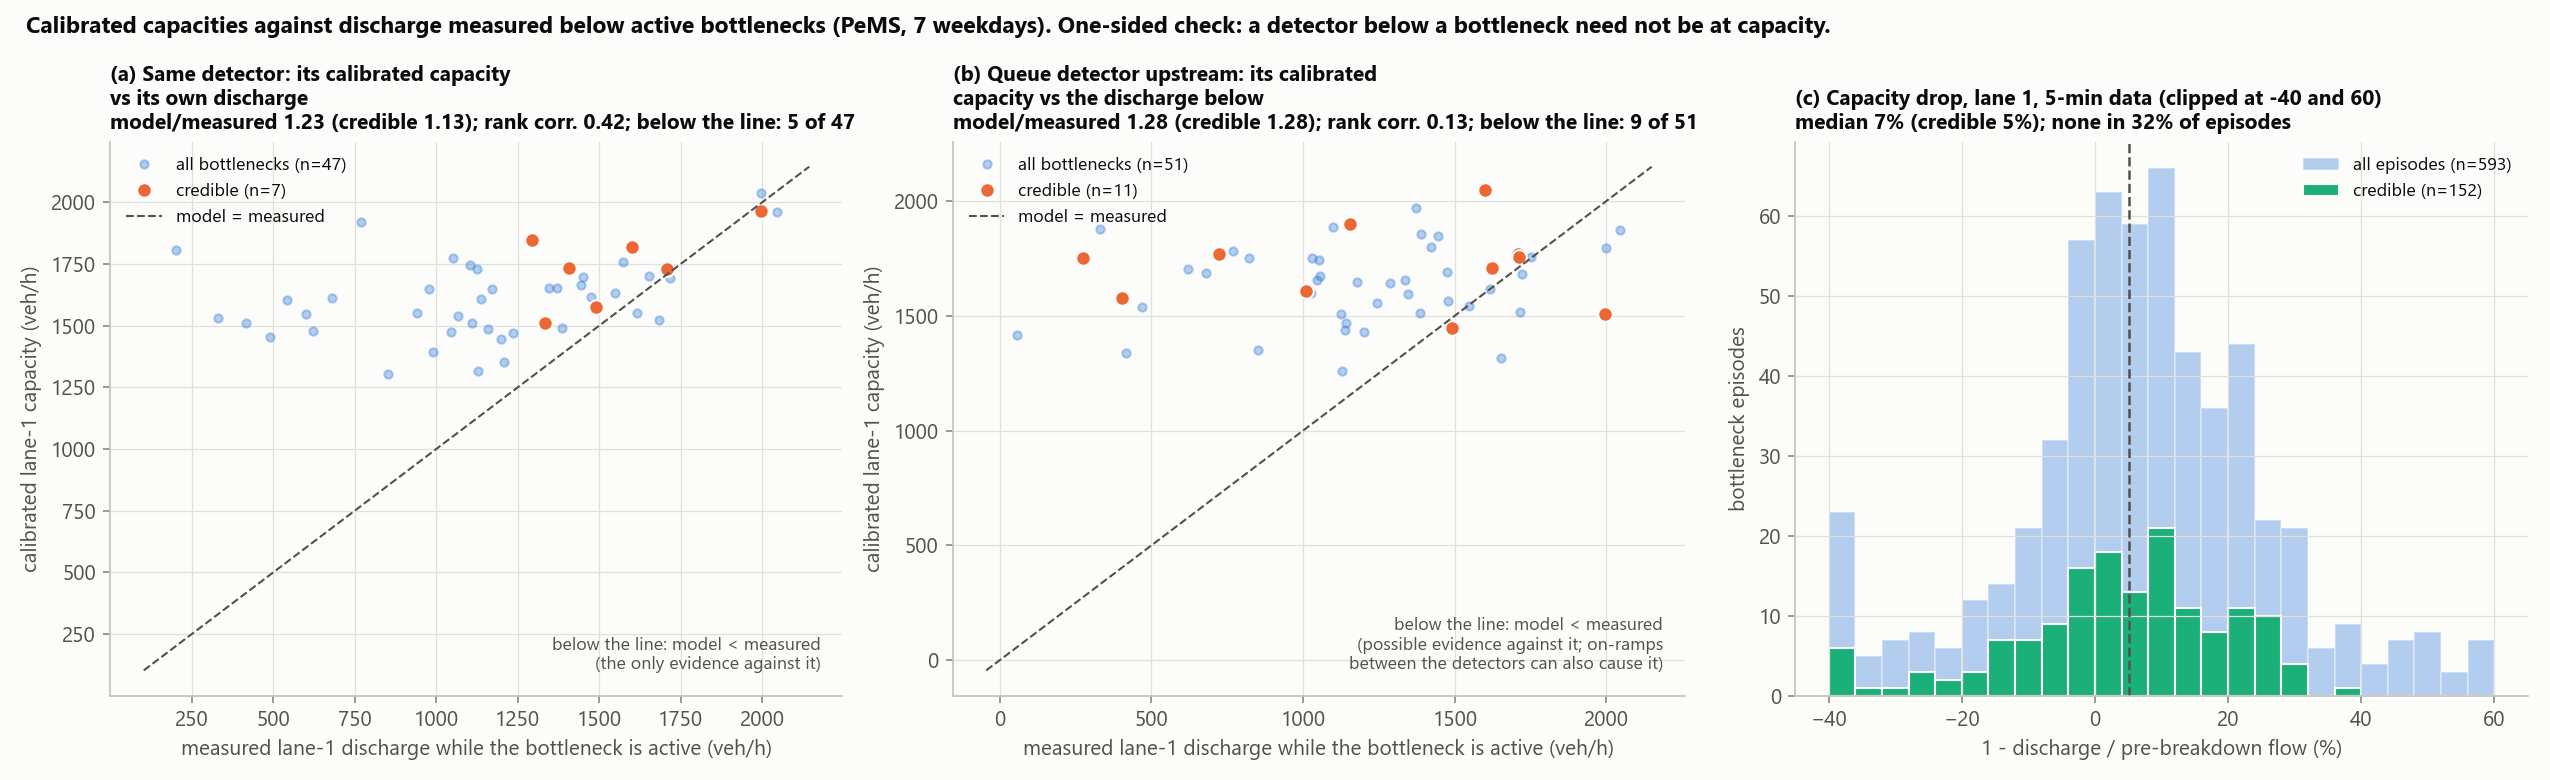
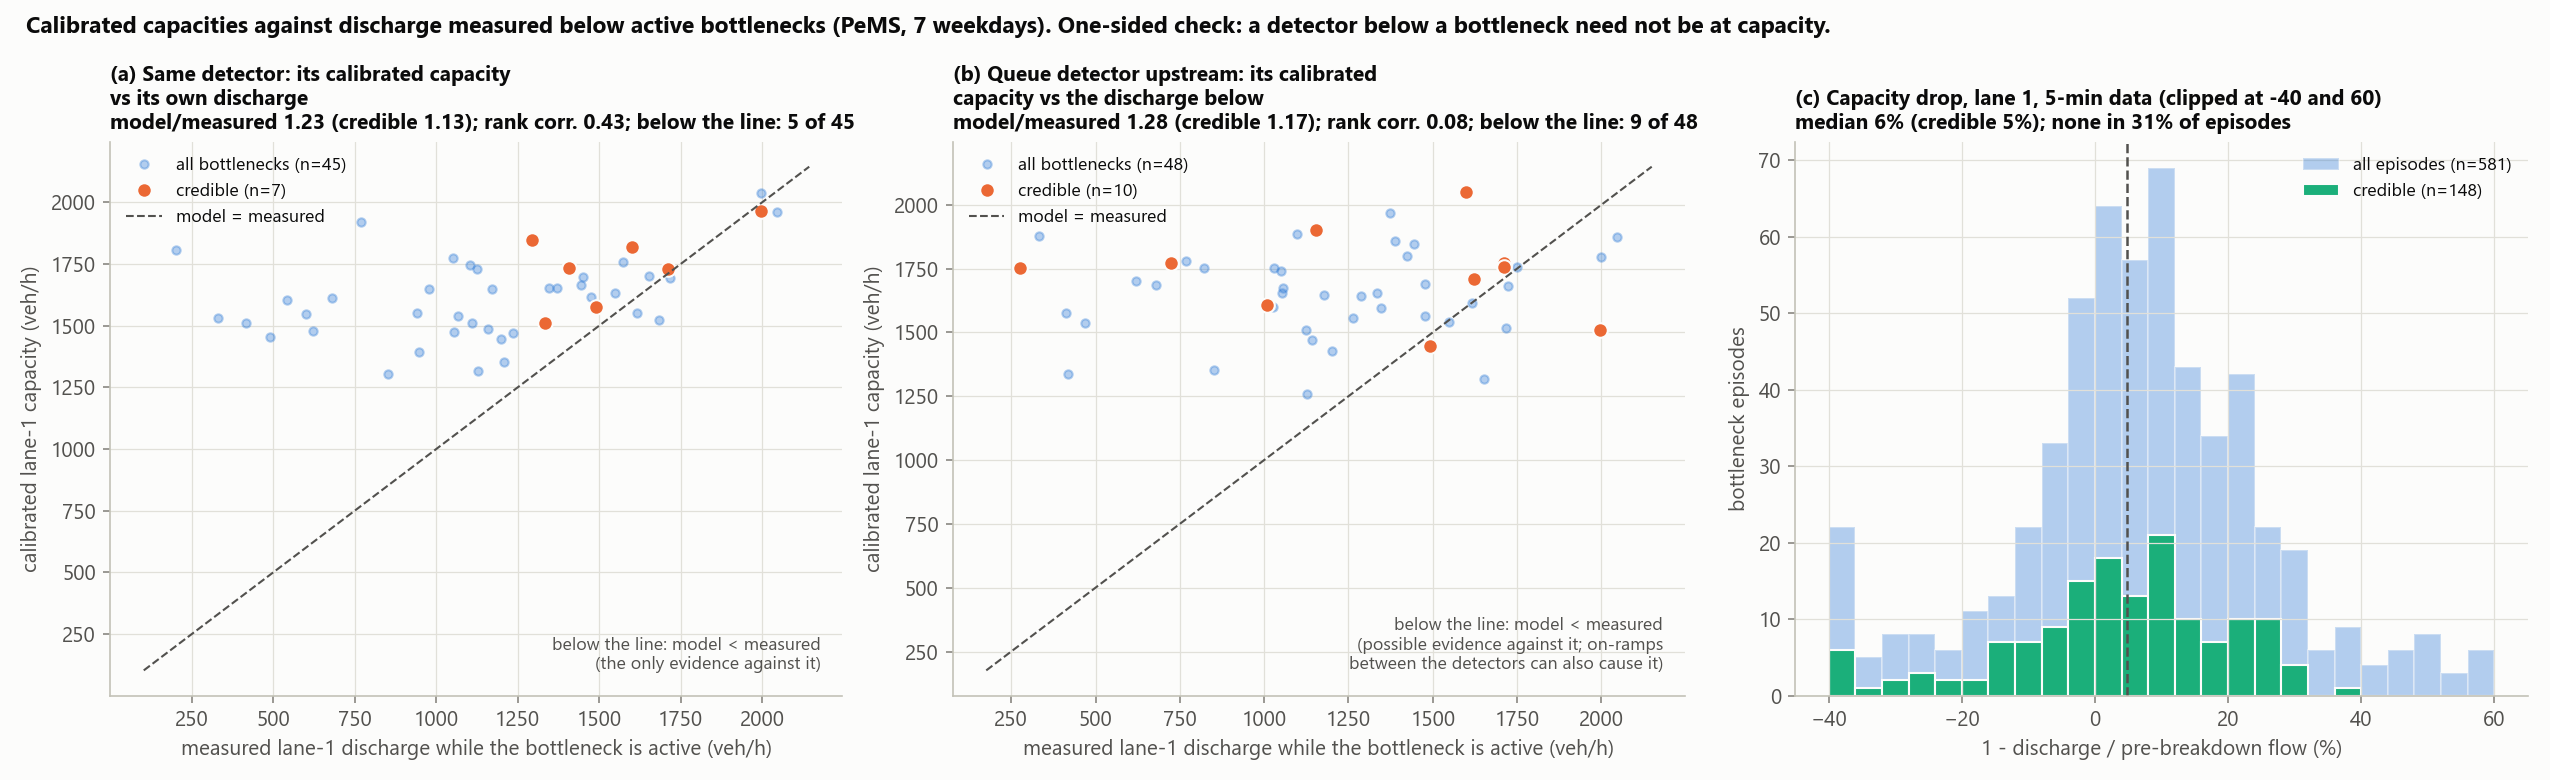
Address copilot issues

diff --git a/scripts/04_build_library.py b/scripts/04_build_library.py
@@ -8,6 +8,7 @@
 
 Progress is saved as it goes; re-running the script resumes where it stopped.
 """
+import os
 import sys
 import time
 from pathlib import Path
@@ -34,6 +35,21 @@ def log(msg):
     print(time.strftime("%H:%M:%S"), msg, flush=True)
 
 
+def save_npz(path, compressed=False, **arrays):
+    """Write to a temporary file next to `path`, then swap it in, so an interruption never leaves a
+    half-written file that a re-run would trust. The temporary name ends in .npz so numpy keeps it."""
+    tmp = path.with_name(path.stem + ".tmp.npz")
+    (np.savez_compressed if compressed else np.savez)(tmp, **arrays)
+    os.replace(tmp, path)
+
+
+def save_csv(frame, path, **kwargs):
+    """Same idea for a CSV."""
+    tmp = path.with_name(path.name + ".tmp")
+    frame.to_csv(tmp, **kwargs)
+    os.replace(tmp, path)
+
+
 if part in ("library", "all") and not LIB.exists():
     flow = np.full((len(grid), rho.size, len(LIBRARY_SEEDS)), np.nan)
     if LIB_PARTIAL.exists():
@@ -44,13 +60,13 @@ if part in ("library", "all") and not LIB.exists():
     for k, i in enumerate(todo, 1):
         flow[i] = simulate_fd(grid.iloc[i])
         if k % 50 == 0 or k == todo.size:
-            np.savez(LIB_PARTIAL, flow=flow)
+            save_npz(LIB_PARTIAL, flow=flow)
             rate = (time.time() - t0) / k
             log(f"library: {len(grid) - todo.size + k}/{len(grid)}  ({rate:.1f} s each, "
                 f"~{rate * (todo.size - k) / 60:.0f} min left)")
-    np.savez_compressed(LIB, flow=flow, rho=rho, vmax=grid["vmax"].to_numpy(),
-                        p=grid["p"].to_numpy(), p0=grid["p0"].to_numpy(), h=grid["h"].to_numpy(),
-                        seeds=np.array(list(LIBRARY_SEEDS)))
+    save_npz(LIB, compressed=True, flow=flow, rho=rho, vmax=grid["vmax"].to_numpy(),
+             p=grid["p"].to_numpy(), p0=grid["p0"].to_numpy(), h=grid["h"].to_numpy(),
+             seeds=np.array(list(LIBRARY_SEEDS)))
     LIB_PARTIAL.unlink(missing_ok=True)
     log(f"library saved: {LIB}")
 
@@ -67,7 +83,7 @@ if part in ("discharge", "all"):
                          discharge=mean, discharge_se=se, runs=runs,
                          av_gain=av_gain(int(r["vmax"]), mean)))
         if k % 25 == 0 or i == len(grid) - 1:
-            pd.DataFrame(rows).to_csv(DIS, index=False, float_format="%.6f")
+            save_csv(pd.DataFrame(rows), DIS, index=False, float_format="%.6f")
             rate = (time.time() - t0) / k
             log(f"discharge: {i + 1}/{len(grid)}  ({rate:.1f} s each, "
                 f"~{rate * (len(grid) - i - 1) / 60:.0f} min left)")

diff --git a/nasch/measure.py b/nasch/measure.py
@@ -74,18 +74,32 @@ def queue_discharge_rate(vmax, human, av=AV, penetration=0.0, n_queue=DISCHARGE_
     return est
 
 
+def default_densities(vmax):
+    """0.05 up to at least 1/(vmax+1) in steps of 0.005; the original 0.05-0.255 grid for vmax >= 3."""
+    return np.arange(0.05, max(0.255, 1.0 / (vmax + 1) + 0.005) + 1e-9, 0.005)
+
+
 def fd_peak(L, vmax, human, av=AV, penetration=0.0, densities=None, steps=2000,
             transient=None, seeds=range(8)):
     """Peak of the ring fundamental diagram (the literature-style capacity), for comparison.
 
     Returns (peak flow, density at the peak, densities used, mean flow at each density).
-    Note: the maximum of noisy averages is biased slightly upward."""
+    Note: the maximum of noisy averages is biased slightly upward.
+
+    The default densities run from 0.05 to at least 1/(vmax+1), the deterministic model's critical
+    density; random slowing, slow-to-start and extra gaps only move the peak to lower densities. (For
+    vmax >= 3 this is the original 0.05-0.255 grid.) If the highest flow sits on the last density
+    of the grid, the true peak may lie beyond it, so this raises instead of returning a truncated value.
+    (Only the upper edge is guarded: with the 0.05 floor the peak cannot sit on the lowest density.)"""
     if densities is None:
-        densities = np.arange(0.05, 0.26, 0.005)
+        densities = default_densities(vmax)
     ns = np.unique(np.maximum(1, np.rint(np.asarray(densities) * L).astype(int)))
     if transient is None:
         transient = min(steps // 3, 2000)
     flow = ring_flow(L, ns, vmax, human, av=av, penetration=penetration, steps=steps,
                      transient=transient, seeds=seeds).mean(axis=1)
     k = int(np.argmax(flow))
+    if k == ns.size - 1:
+        raise ValueError(f"the highest flow is at the largest density tried ({ns[-1] / L:.3f}); "
+                         "the peak may lie beyond it, so pass a wider `densities` range")
     return float(flow[k]), float(ns[k] / L), ns / L, flow

diff --git a/scripts/12_error_budget.py b/scripts/12_error_budget.py
@@ -102,15 +102,25 @@ def budget(kk, gg, bb, ll):
 point = budget(k, gap, base, lane2)
 rng = np.random.default_rng(9)
 corrs = k["corridor"].unique()
+corridor_keys = k[["station", "date", "corridor"]].drop_duplicates()
+
+
+def split_by_corridor(table):
+    """The rows of `table` that belong to each corridor's kept station-days, so that a corridor drawn
+    twice in a bootstrap replicate contributes its rows twice, as it does in the main table."""
+    t = table.merge(corridor_keys, on=["station", "date"])
+    return {c: t[t["corridor"] == c] for c in corrs}
+
+
+gap_c, base_c, lane2_c = split_by_corridor(gap), split_by_corridor(base), split_by_corridor(lane2)
 boots = []
 for _ in range(500):
     pick = rng.choice(corrs, corrs.size, replace=True)
     kk = pd.concat([k[k["corridor"] == c].assign(station=lambda d, j=j: d["station"].astype(str) + f"#{j}")
                     for j, c in enumerate(pick)])
-    keys = set(zip(kk["station"].str.split("#").str[0].astype(int), kk["date"]))
-    gg = gap[[(s, d) in keys for s, d in zip(gap["station"], gap["date"])]]
-    bb = base[[(s, d) in keys for s, d in zip(base["station"], base["date"])]]
-    ll = lane2[[(s, d) in keys for s, d in zip(lane2["station"], lane2["date"])]]
+    gg = pd.concat([gap_c[c] for c in pick])
+    bb = pd.concat([base_c[c] for c in pick])
+    ll = pd.concat([lane2_c[c] for c in pick])
     boots.append(budget(kk, gg, bb, ll))
 boots = np.array(boots)
 lo, hi = np.percentile(boots, [2.5, 97.5], axis=0)

diff --git a/nasch/bottlenecks.py b/nasch/bottlenecks.py
@@ -19,7 +19,8 @@ from scipy.stats import binom
 
 from . import paths
 
-# detection rule (speeds in km/h): upstream in a queue, downstream much faster, detectors close
+# detection rule (speeds in km/h): upstream in a queue, downstream free-flowing (>= 40 mph) and much faster,
+# detectors close
 QUEUE_SPEED = 40 * 1.609344          # 40 mph
 SPEED_DIFFERENCE = 20 * 1.609344     # 20 mph
 MAX_SPACING_KM = 2 * 1.609344        # 2 miles (Chen et al. 2004)
@@ -131,8 +132,10 @@ def active_mask(v_up, v_down):
     """Interval-by-interval bottleneck activity between two detectors, from all-lane station speeds.
     The rule must hold in at least 5 of 7 consecutive intervals. Within such a window, everything from
     the first to the last interval where the rule holds counts as active, so a single missed interval
-    does not split one event, while the event does not spill past its real start or end."""
-    rule = (v_up < QUEUE_SPEED) & (v_down - v_up > SPEED_DIFFERENCE)
+    does not split one event, while the event does not spill past its real start or end.
+    The downstream detector must be out of the queue too: a large speed difference between two queued
+    detectors is not a bottleneck between them."""
+    rule = (v_up < QUEUE_SPEED) & (v_down >= QUEUE_SPEED) & (v_down - v_up > SPEED_DIFFERENCE)
     need, window = PERSIST
     hits = pd.Series(rule.astype(float)).rolling(window, min_periods=window).sum().to_numpy()
     active = np.zeros(len(rule), bool)

diff --git a/tests/test_measure.py b/tests/test_measure.py
@@ -2,7 +2,7 @@
 import numpy as np
 import pytest
 
-from nasch.measure import discharge_rates, fd_peak, queue_discharge_rate
+from nasch.measure import default_densities, discharge_rates, fd_peak, queue_discharge_rate
 from nasch.simulator import Driver
 
 
@@ -51,3 +51,20 @@ def test_fd_peak_of_deterministic_model_is_the_triangle_top():
                               steps=3000, seeds=range(2))
     assert peak == pytest.approx(0.8, abs=1e-9)
     assert rho == pytest.approx(0.2, abs=1e-9)
+
+
+def test_fd_peak_default_range_reaches_the_peak_for_small_vmax():
+    peak, rho, _, _ = fd_peak(1000, 1, Driver(p=0.0), steps=3000, seeds=range(2))
+    assert peak == pytest.approx(0.5, abs=1e-9)
+    assert rho == pytest.approx(0.5, abs=1e-9)
+
+
+def test_fd_peak_default_range_is_unchanged_for_vmax_3_and_up():
+    for vmax in (3, 4, 5, 6):
+        np.testing.assert_allclose(default_densities(vmax), np.arange(0.05, 0.26, 0.005), atol=1e-12)
+    assert default_densities(1)[-1] >= 0.5 and default_densities(2)[-1] >= 1 / 3
+
+
+def test_fd_peak_on_the_grid_edge_raises():
+    with pytest.raises(ValueError, match="largest density"):
+        fd_peak(1000, 4, Driver(p=0.0), densities=np.arange(0.05, 0.16, 0.01), steps=500, seeds=range(1))

diff --git a/tests/test_baseline.py b/tests/test_baseline.py
@@ -4,7 +4,7 @@ import pandas as pd
 import pytest
 
 from nasch.baseline import fit_triangle, predict_triangle
-from nasch.bottlenecks import (QUEUE_SPEED, active_mask, episodes, measure_pair, median_interval, ramp_distances,
+from nasch.bottlenecks import (QUEUE_SPEED, SPEED_DIFFERENCE, active_mask, episodes, measure_pair, median_interval, ramp_distances,
                                ramps_between)
 
 
@@ -52,6 +52,15 @@ def test_short_blips_are_not_bottlenecks():
     down = np.full(60, 100.0)
     up[10:13] = QUEUE_SPEED - 5           # only 3 intervals
     down[10:13] = 100.0
+    assert not active_mask(up, down).any()
+
+
+def test_both_detectors_queued_is_not_a_bottleneck():
+    up = np.full(60, 100.0)
+    down = np.full(60, 100.0)
+    up[10:40] = 10.0                      # deep queue upstream ...
+    down[10:40] = 50.0                    # ... and still queued downstream (below QUEUE_SPEED)
+    assert down[10] < QUEUE_SPEED and down[10] - up[10] > SPEED_DIFFERENCE
     assert not active_mask(up, down).any()
 
 

diff --git a/tests/test_calibration.py b/tests/test_calibration.py
@@ -94,6 +94,14 @@ def test_library_without_every_h_value_still_fits():
     assert out["h"] == 0 and np.isnan(out["geh_best_h1"]) and np.isnan(out["geh_best_h2"])
 
 
+def test_custom_dt_grid_as_a_list():
+    lib = triangle_library()
+    k, times = a_day()
+    q = 3600 * model_flow(lib, k * CELL_KM)[:, 1] / 1.2
+    out, _ = fit_station_day(lib, np.full(5, 0.5), k, q, times, n_boot=10, dt_grid=[0.8, 1.0, 1.2])
+    assert out["dt"] == pytest.approx(1.2) and out["dt_lo"] == pytest.approx(1.2)
+
+
 def test_forcing_the_wrong_buffer_costs_fit():
     lib = triangle_library()
     k, times = a_day()

diff --git a/nasch/calibration.py b/nasch/calibration.py
@@ -161,6 +161,7 @@ def fit_station_day(lib, discharge, k, q, times, n_boot=500, block=12, seed=0,
     see `split_column`.
     """
     k, q = np.asarray(k, float), np.asarray(q, float)
+    dt_grid = np.asarray(dt_grid, float)               # a list or tuple works too
     n, n_dt = k.size, len(dt_grid)
     G = geh_matrix(model_flow(lib, k * CELL_KM), q, dt_grid)
     vmax = lib.grid["vmax"].to_numpy()

diff --git a/README.md b/README.md
@@ -44,11 +44,11 @@ Why do detectors on the same corridor differ? Not mainly because of where they s
   within corridors).
 * With the PeMS station metadata I tested position directly. Lane count, distance to the nearest on-
   and off-ramp, and sitting next to a recurring active bottleneck together add almost nothing within
-  a corridor: adjusted R² +0.016, against a bar of 0.10 I set beforehand (+0.006 under my original,
-  looser definition of "next to a bottleneck"). Ramp postmiles are only resolved to the interchange,
-  so this tests position at that scale.
-* A queue detector's *calibrated capacity* does not track the discharge of the bottleneck below it
-  (rank correlation 0.13, n=51).
+  a corridor: adjusted R² +0.015, against a bar of 0.10 I set beforehand (+0.006 under my original,
+  looser definition of "next to a bottleneck", under either detection rule). Ramp postmiles are only
+  resolved to the interchange, so this tests position at that scale.
+* A queue detector's *calibrated capacity* shows no detectable tracking of the discharge of the
+  bottleneck below it (rank correlation 0.08, 95% interval −0.29 to 0.39, n=48).
 * All the descriptors together explain only about a fifth of the spread.
 
 So the differences are mostly specific to the lane and the loop: persistent measurement error in
@@ -112,20 +112,23 @@ almost an identity here, because density is computed as flow divided by speed.
   2.4% (median), but misses by more than 5% on 21% of days.
 * **Against flow measured below real bottlenecks, its capacities come out higher, but this check is
   one-sided.** Using PeMS postmiles, I flagged active bottlenecks: a queue at one detector and free
-  flow at the next, at the same time (Chen et al. 2004). While one is active, the lane-1 flow at the
-  free-flowing detector is the discharge.
-  * The flagged queues are dense (upstream occupancy about 22%). The median capacity drop is 7%, but
+  flow (at least 40 mph) at the next, at the same time (after Chen et al. 2004). While one is active,
+  the lane-1 flow at the free-flowing detector is the discharge.
+  * The flagged queues are dense (upstream occupancy about 22%). The median capacity drop is 6%, but
     a third of episodes show none, so on 5-minute lane-1 data this is only a rough check.
-  * There are 47 bottlenecks whose free-flowing detector was also calibrated. There, the calibrated
-    capacity is a median 23% above the lane-1 flow the detector carries (95% interval 13-47%,
-    resampling corridors), and it ranks those flows only weakly (rank correlation 0.42).
+  * There are 45 bottlenecks whose free-flowing detector was also calibrated. There, the calibrated
+    capacity is a median 23% above the lane-1 flow the detector carries (95% interval 13-54%,
+    resampling corridors), and it ranks those flows only weakly (rank correlation 0.43).
   * At the 7 cleanest of them (recurring, well observed, no off-ramp in between), the gap is 13%
     (exact 95% interval -1% to +43%). That is too few to tell from zero.
   * But a free-flowing detector below a bottleneck need not be at capacity, and its lane 1 need not be
-    saturated: a quarter of these sites carry under 1,000 veh/h in lane 1. So "higher" is the expected
-    sign, and the check bounds the error rather than measuring it. Only 5 of the 47 detectors show the
-    opposite, by at most 9.5%.
-  * A fitted triangle behaves the same way (28% higher; 3 of 46 the other way).
+    saturated: over a quarter of these sites carry under 1,000 veh/h in lane 1. So "higher" is the
+    expected sign, and the check bounds the error rather than measuring it. Only 5 of the 45 detectors
+    show the opposite, by at most 9.5%.
+  * A fitted triangle behaves the same way (28% higher; 3 of 44 the other way).
+  * My first version of the detection rule did not check that the downstream detector was out of the
+    queue. With it, the same comparison gave n=47, a 95% interval of 13-47% and rank correlation 0.42
+    (queue detector: 0.13, n=51). The median gap, the 7 cleanest sites and the conclusions are unchanged.
 * **Why a CA at all, then?** Because AV capacity studies often use this class of model, which is
   what makes point 2 matter. Here the CA is the object of study, not a better tool.
 
@@ -188,7 +191,7 @@ error rather than measuring it.
   set-up move the answer. It does not predict real AVs. The AV formula assumes the AV accelerates
   without limit, and it uses PeMS's partly assumed free-flow speed (about 119 km/h).
 * **The capacities are not checked against a true bottleneck capacity.** Below active bottlenecks
-  they sit above the measured lane-1 discharge (median 23%, n=47). That is the expected direction for
+  they sit above the measured lane-1 discharge (median 23%, n=45). That is the expected direction for
   a one-sided check, so it bounds the error rather than measuring it.
   * If part of that gap is real error, the human baseline is too high, and the absolute AV gains in
     point 2 are understated rather than overstated.
